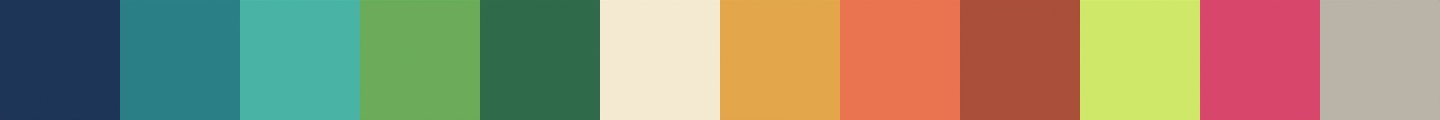
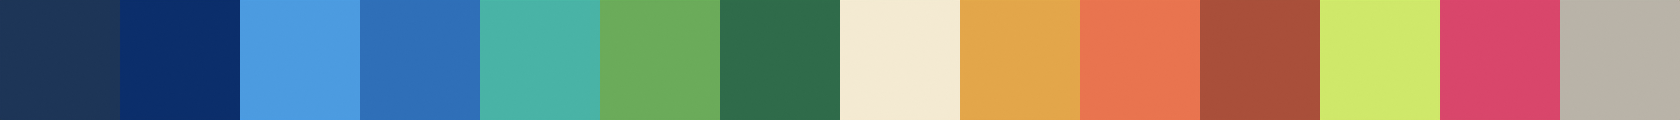
C9: the fluid's palette and value rule in ART_DIRECTION, for art's sign-off
The palette gains Fluid deep #0B2E6B, Fluid light #4C9BE0 and Ambient #2F6FB8, and retires Pool
teal as a habitat colour (it stays in lookdev.py only as the eye-iris tint the cell scripts use,
and leaves the palette board, which is re-rendered). The habitat saturation cap no longer
applies to the fluid; the plan's rule takes its place (brightest radiance luminance <= 0.12,
blue, LAB hue 268 to 288; on screen L* 26 to 36, 90 degrees from the threat pink and the cell
15 L* clear), marked PROPOSED until art signs off. In-engine review frames are over the fluid.

Claude-Session: https://claude.ai/code/session_01Xyd6kCqjbxBwJ5z8nNmQ4x

diff --git a/tools/blender/lookdev.py b/tools/blender/lookdev.py
@@ -15,7 +15,10 @@ RENDER_DIR = os.path.join(ROOT, "docs", "art", "renders")
 # Art-direction palette (PROPOSED). Keep in sync with docs/art/ART_DIRECTION.md section 3.
 PALETTE = {
     "deep_shadow": "#1D3557",
-    "pool_teal": "#2A7F86",
+    "fluid_deep": "#0B2E6B",
+    "fluid_light": "#4C9BE0",
+    "ambient": "#2F6FB8",
+    "pool_teal": "#2A7F86",  # retired as a habitat colour (micro-world plan C9); eye-iris tint only
     "shallow_turquoise": "#49B3A6",
     "algae_green": "#6BAB5A",
     "moss_deep": "#2F6B4A",
@@ -27,6 +30,8 @@ PALETTE = {
     "threat": "#D9466B",
     "clay": "#B9B3A8",
 }
+# Kept for the materials that still use them, but no longer on the palette board.
+RETIRED = {"pool_teal"}
 
 # Gameplay camera from game/data/pool_m1.json (M1 step 2): pitch 55 deg, FOV 45 deg, 14 m.
 GAME_CAMERA = {"pitch_deg": 55.0, "fov_deg": 45.0, "distance": 14.0}

diff --git a/tools/blender/render_material_sheet.py b/tools/blender/render_material_sheet.py
@@ -54,7 +54,7 @@ def palette_board():
     ld.setup_render(samples=1)
     scene.view_settings.view_transform = "Standard"
     scene.view_settings.look = "None"
-    names = list(ld.PALETTE)
+    names = [name for name in ld.PALETTE if name not in ld.RETIRED]
     scene.render.resolution_x, scene.render.resolution_y = 120 * len(names), 120
     for i, name in enumerate(names):
         bpy.ops.mesh.primitive_plane_add(size=1.0, location=(i + 0.5 - len(names) / 2, 0, 0))

diff --git a/docs/art/ART_DIRECTION.md b/docs/art/ART_DIRECTION.md
@@ -31,15 +31,18 @@ each era its own look without starting a new style every time.
 
 ## 3. Palette
 
-Values are a starting board, PROPOSED. Swatches: `docs/art/renders/palette.png`; material spheres (left to right: clay, membrane, teal membrane, organelle, eye, lid and lip, food, threat): `docs/art/renders/material_sheet.jpg`. Both come from `tools/blender/render_material_sheet.py`. Habitats are cool and slightly desaturated; living
-things and anything interactive are warmer and more saturated, so they read against the
-background before detail does. Color is never the only signal (Bible section 20): food, threat
+Values are a starting board, PROPOSED. Swatches: `docs/art/renders/palette.png`; material spheres (left to right: clay, membrane, teal membrane, organelle, eye, lid and lip, food, threat): `docs/art/renders/material_sheet.jpg`. Both come from `tools/blender/render_material_sheet.py`. Habitats are cool and dark: the
+microscopic fluid is a deep, saturated blue held low in value (the rule below), and other habitat
+colours are slightly desaturated. Living things and anything interactive are warmer and
+lighter, so they read against the background before detail does. Color is never the only signal (Bible section 20): food, threat
 and mate also differ in shape and motion.
 
 | Role | Hex | Use |
 | --- | --- | --- |
 | Deep shadow | `#1D3557` | Pool depths, ambient shadow color. Shadows go blue, never black. |
-| Pool teal | `#2A7F86` | Water tint, far habitat. |
+| Fluid deep | `#0B2E6B` | The microscopic fluid at depth: the Backdrop and the background. |
+| Fluid light | `#4C9BE0` | The lit field round the view centre (the DepthGlow's colour, seen only through the fog's scatter). Never a surface colour: as a surface it is lighter than the coral cell. |
+| Ambient | `#2F6FB8` | Ambient light in the pool (energy 0.8), so shadows go blue. |
 | Shallow turquoise | `#49B3A6` | Lit habitat surfaces. |
 | Algae green | `#6BAB5A` | Plants and grazer-friendly zones. |
 | Moss deep | `#2F6B4A` | Habitat mid-tones. |
@@ -51,8 +54,27 @@ and mate also differ in shape and motion.
 | Threat | `#D9466B` | Spikes and attack tells. Always paired with a sharp shape. |
 | Clay | `#B9B3A8` | Neutral clay renders (Bible section 15 asks for clay next to beauty). |
 
-Saturation discipline: habitat colors stay below about 55% saturation, creature colors may go
-to about 75%, and only food and threat may exceed that.
+Pool teal (`#2A7F86`) is retired as a habitat colour (micro-world plan, C9): the owner-approved
+deep-blue fluid replaced the teal pool on 2026-10-22. The hex survives only as an eye-iris tint in
+the Blender scripts (`lookdev.py` key `pool_teal`), which is a creature colour; the palette board
+leaves it out.
+
+Saturation discipline: habitat colors other than the fluid stay below about 55% saturation,
+creature colors may go to about 75%, and only food and threat may exceed that.
+
+**The fluid's rule (PROPOSED, for art's sign-off).** The approved fluid measures about 93% HSL
+saturation, well over the habitat cap, so the fluid is exempt from the cap. These checks hold it
+instead:
+- the fluid's brightest radiance (the fog colour plus the glow's scatter) has luminance at most
+  0.12;
+- it is blue (blue above green above red), with LAB hue 268 to 288 degrees. That keeps it more
+  than 150 degrees from food (`#CFE86A`, h 114) and at least 83 from the threat pink (`#D9466B`,
+  h 11) in the stored colours (`tests/test_pool_look.gd`);
+- on screen, the look probe holds the fluid near the cell to L\* 26 to 36, at least 90 degrees of
+  LAB hue from the threat pink, and the coral cell at least 15 L\* away from it
+  (`tools/godot/look_probe.gd`, gates `fluid_value`, `fluid_threat_gap` and `cell_contrast`).
+
+Art signs off on this wording; until then it is engineering's proposal.
 
 ## 4. Materials
 
@@ -102,6 +124,10 @@ Turntables use one setup so rungs and assets compare fairly: a warm key light fr
 front-left above, a cool fill from the right, a teal rim from behind, and a soft blue-grey
 world. Shadows stay readable and tinted blue. Each review sheet shows clay and beauty side by
 side, plus the gameplay-camera silhouette.
+
+In-engine review frames (`tools/godot/capture_asset.gd`) show the asset over the fluid it lives
+in: the pool's own environment, Sun, DepthGlow and Backdrop, in either renderer. They replaced the
+old teal review floor (micro-world plan, C9).
 
 ## 7. The quality ladder
 
